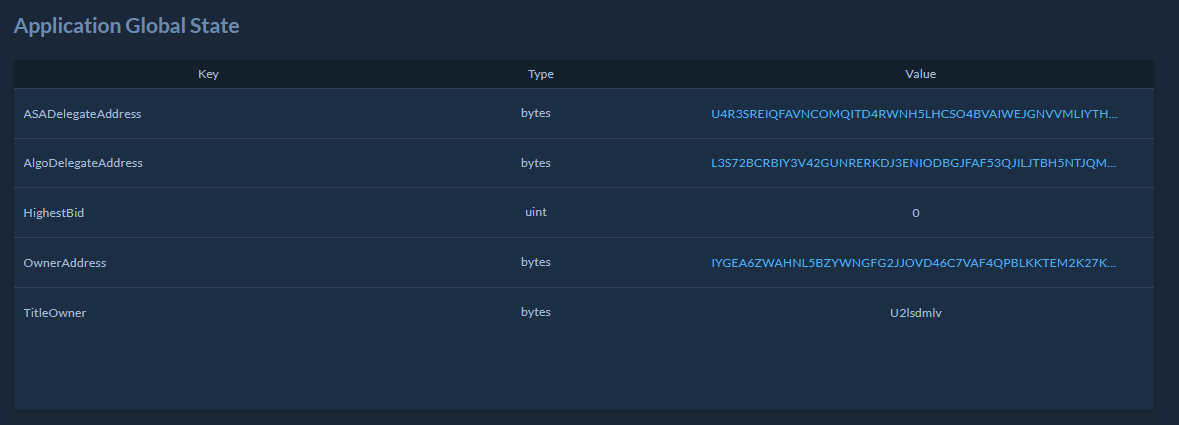
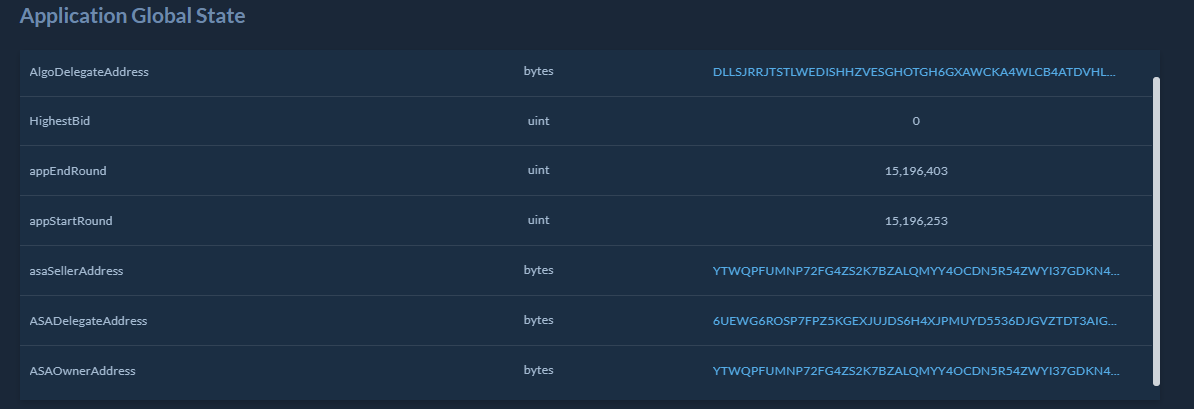
added new images.

diff --git a/src/app_pyteal/app_source_code.py b/src/app_pyteal/app_source_code.py
@@ -62,7 +62,8 @@ def setup_possible_app_calls_logic(asset_authorities_code, transfer_asa_code, pa
     """
     There are 3 possible options for executing the application actions:
     1. Setting up authorities
-        - App call with 4 arguments: ASADelegateAddress, AlgoDelegateAddress, asaOwnerAddress and appDuration.
+        - App call with 5 arguments: ASADelegateAddress, AlgoDelegateAddress, asaOwnerAddress, appDuration
+        and ASASellerAddress.
     2. Transferring the ASA
         - Atomic transfer with 4 transactions:
             2.1 - Application call.
@@ -78,11 +79,11 @@ def setup_possible_app_calls_logic(asset_authorities_code, transfer_asa_code, pa
     :param payment_to_seller_code: The code that is responsible for paying the highest bid to the seller of the ASA.
     :return:
     """
-    is_setting_up_delegates = Global.group_size() == Int(1)
+    is_setting_up_asset_authorities = Global.group_size() == Int(1)
     is_transferring_asa = Global.group_size() == Int(4)
     is_payment_to_seller = Global.group_size() == Int(2)
 
-    return If(is_setting_up_delegates, asset_authorities_code,
+    return If(is_setting_up_asset_authorities, asset_authorities_code,
               If(is_transferring_asa, transfer_asa_code,
                  If(is_payment_to_seller, payment_to_seller_code, Return(Int(0)))))
 

diff --git a/src/app_services/app_interaction_service.py b/src/app_services/app_interaction_service.py
@@ -18,7 +18,7 @@ class AppInteractionService:
                  asa_id: int,
                  current_owner_address: str,
                  current_highest_bid: int = DefaultValues.highestBid,
-                 teal_version: int = 2):
+                 teal_version: int = 3):
         """
         Object that defines the interactions with the application.
         :param app_id: The app_id that will be interacted with.
